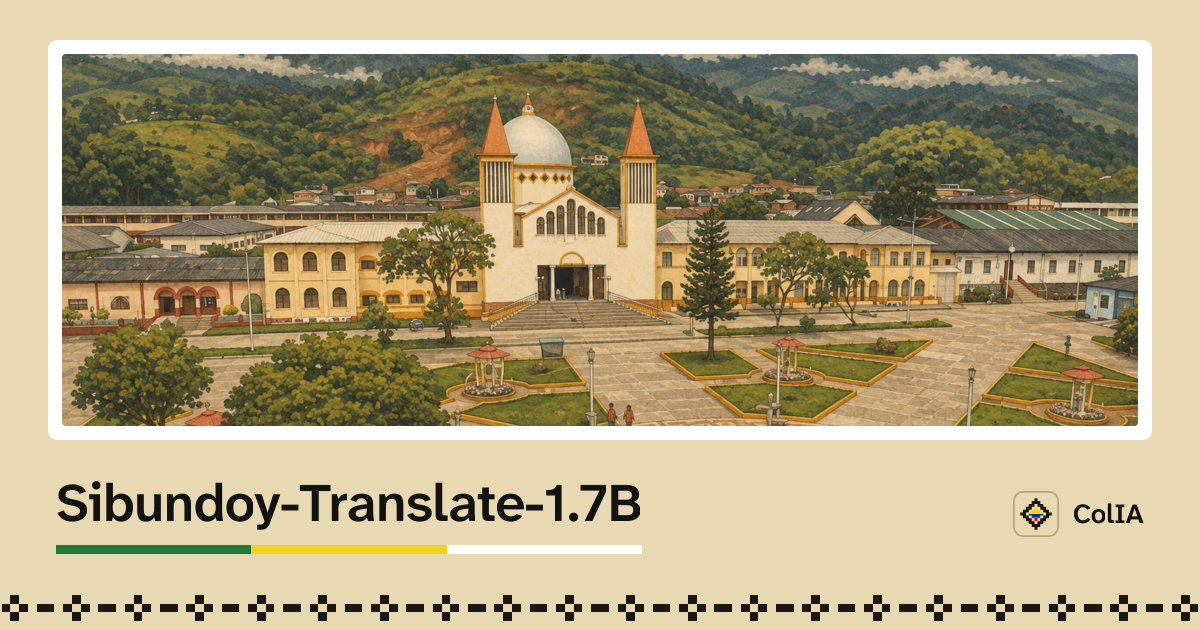
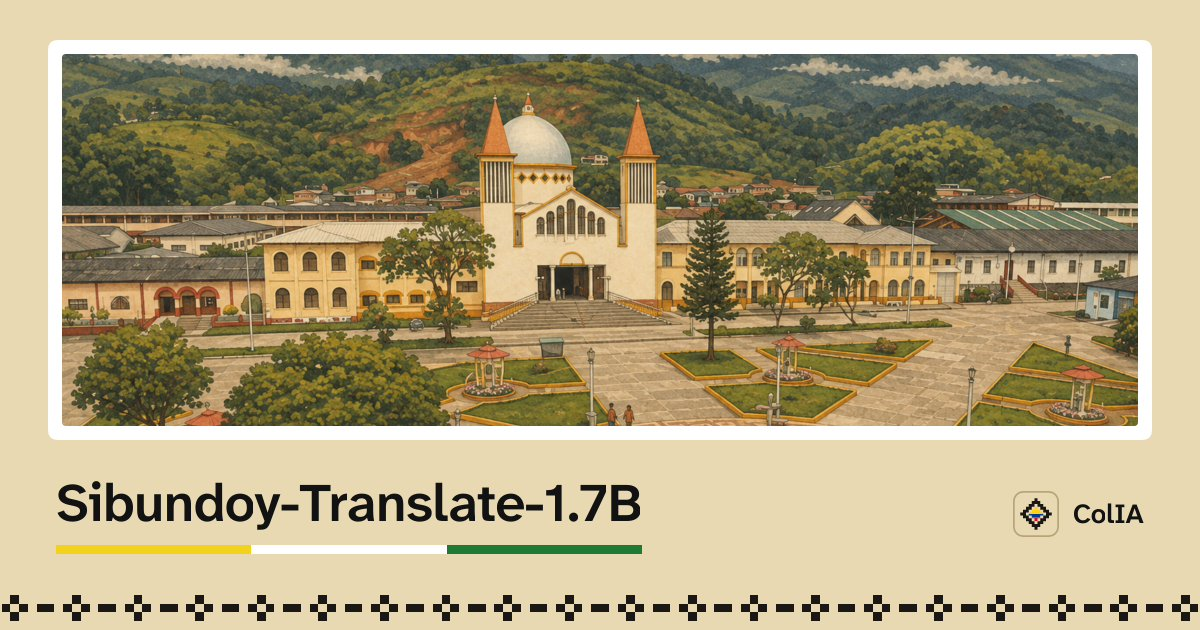
Corrige el orden de la bandera de Sibundoy: amarillo, blanco y verde

Changed region(s): [[0.0308, 0.8444, 0.555, 0.9048]]

diff --git a/DESIGN.md b/DESIGN.md
@@ -215,7 +215,7 @@ Son ilustraciones generadas con IA. Para la web final se pueden sustituir por fo
 
 **Fila de proyecto.** Nombre en `item-title`, estado a la derecha, descripción en texto secundario y, debajo, la línea de la bandera.
 
-**Línea de la bandera del lugar.** En la entrada del blog que presenta un modelo, bajo su nombre en el título, va una línea de 6 px con los colores de la bandera del lugar que le da nombre. Sibundoy: verde `#1E7B34`, amarillo `#F2D21B` y blanco `#FFFFFF`, en franjas iguales, según Rubén. Los tonos del verde y el amarillo están ajustados a la paleta de la web.
+**Línea de la bandera del lugar.** En la entrada del blog que presenta un modelo, bajo su nombre en el título, va una línea de 6 px con los colores de la bandera del lugar que le da nombre. Sibundoy: amarillo `#F2D21B`, blanco `#FFFFFF` y verde `#1E7B34`, en ese orden y en franjas iguales, según Rubén. Los tonos del verde y el amarillo están ajustados a la paleta de la web.
 
 **Estado del proyecto** («In development», «Available»). Punto ámbar de 6 px y texto secundario de 14 px.
 

diff --git a/src/content/blog/es/sibundoy-translate-1-7b.md b/src/content/blog/es/sibundoy-translate-1-7b.md
@@ -8,7 +8,7 @@ etiqueta: modelo
 portada: ../../../assets/sibundoy1.png
 portadaAlt: "Ilustración del valle de Sibundoy, en el Putumayo, con campos verdes y montañas con neblina"
 portadaPie: "El valle de Sibundoy, en el Putumayo, Colombia. Ilustración."
-banderaLugar: ["#1E7B34", "#F2D21B", "#FFFFFF"]
+banderaLugar: ["#F2D21B", "#FFFFFF", "#1E7B34"]
 compartir: /og/sibundoy-translate-1-7b.jpg
 borrador: false
 ---

diff --git a/src/content/blog/en/sibundoy-translate-1-7b.md b/src/content/blog/en/sibundoy-translate-1-7b.md
@@ -8,7 +8,7 @@ etiqueta: modelo
 portada: ../../../assets/sibundoy1.png
 portadaAlt: "Illustration of the Sibundoy Valley, in Putumayo, with green fields and misty mountains"
 portadaPie: "The Sibundoy Valley, in Putumayo, Colombia. Illustration."
-banderaLugar: ["#1E7B34", "#F2D21B", "#FFFFFF"]
+banderaLugar: ["#F2D21B", "#FFFFFF", "#1E7B34"]
 compartir: /og/sibundoy-translate-1-7b.jpg
 borrador: false
 ---
